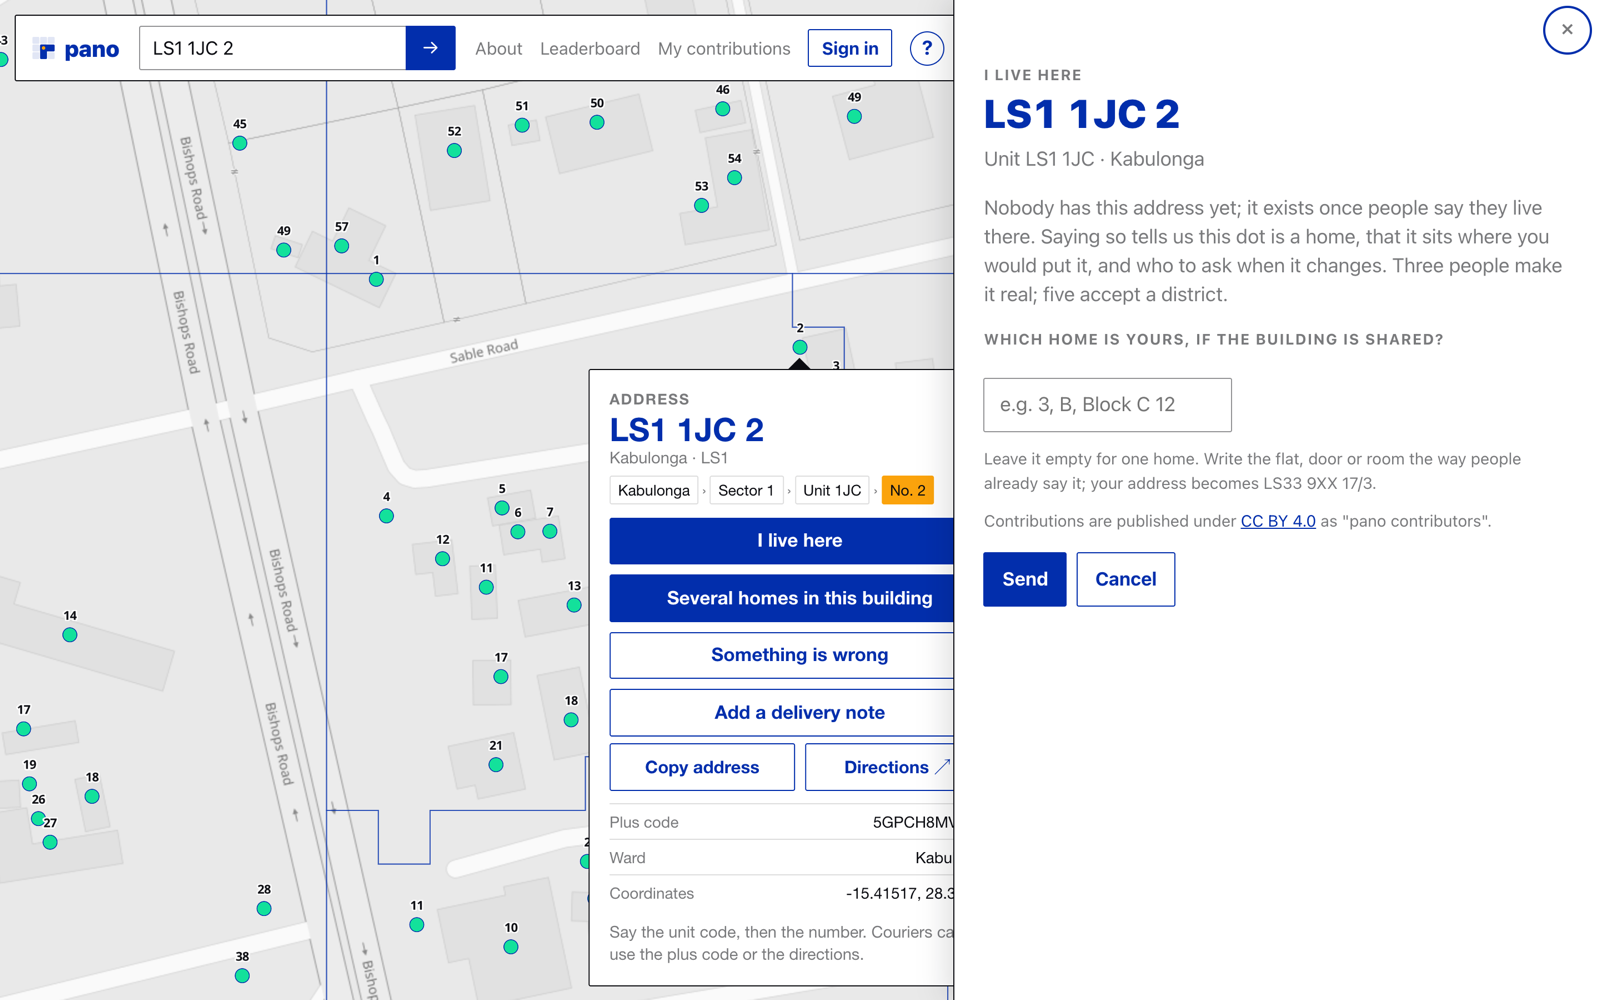
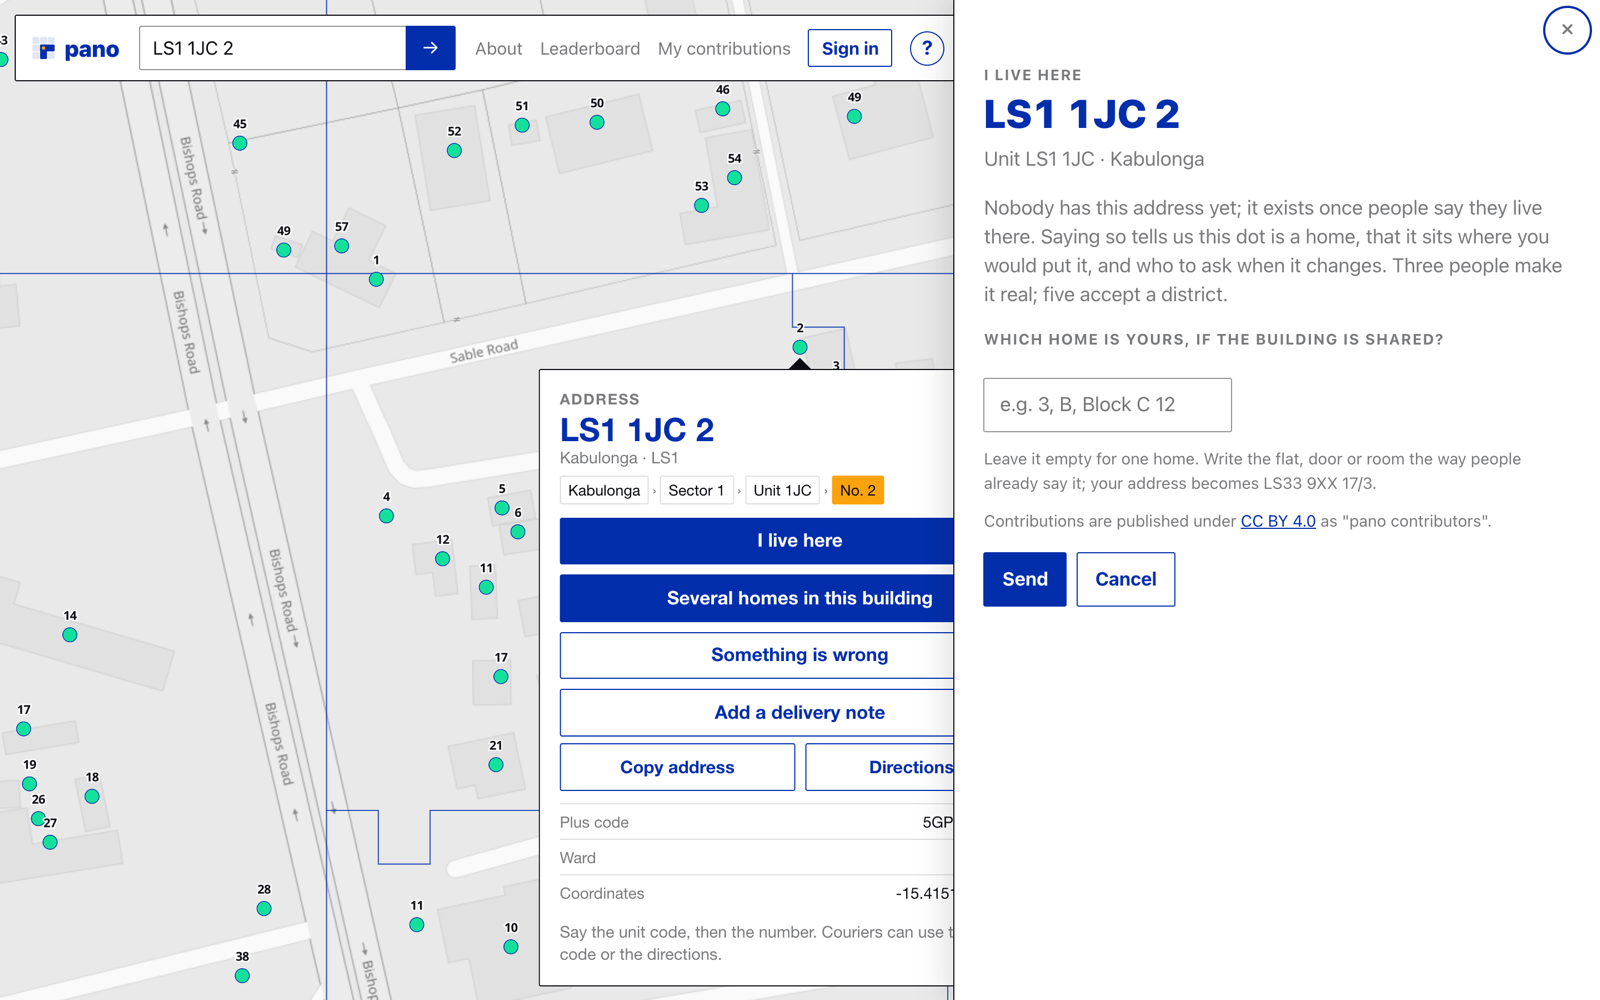
fix: a wider map card
42rem on a desktop, the viewport less a margin on a phone; 34rem
cramped the crumbs and the facts.

Claude-Session: https://claude.ai/code/session_015MA6EVJhnYjPz7w1iBwb9f

Changed region(s): [[0.3125, 0.372, 0.5938, 0.992], [0.5312, 0.806, 0.5938, 0.899], [0.5312, 0.744, 0.5938, 0.775]]

diff --git a/app/assets/stylesheets/application.css b/app/assets/stylesheets/application.css
@@ -190,7 +190,7 @@ a:hover { text-decoration: underline; text-underline-offset: .2em; }
 }
 
 /* Map popups in pano's style */
-.maplibregl-popup { max-width: 34rem !important; font-family: inherit; }
+.maplibregl-popup { max-width: min(42rem, calc(100vw - 2.4rem)) !important; font-family: inherit; }
 .maplibregl-popup-content { border: 1px solid var(--ink); border-radius: var(--radius); box-shadow: none; padding: 1.4rem 1.6rem 1.6rem; font-size: 1.4rem; }
 .maplibregl-popup-content .eyebrow { margin: 0 0 .2rem; padding-right: 2.4rem; }
 .maplibregl-popup-content .address { font-size: 2.6rem; font-weight: 900; line-height: 1.05; color: var(--accent); margin: 0 0 .8rem; font-variant-numeric: tabular-nums; }

diff --git a/app/javascript/controllers/map_controller.js b/app/javascript/controllers/map_controller.js
@@ -484,7 +484,7 @@ export default class extends Controller {
     }
     if (note) add("p", "note", note)
     this.popup?.remove()
-    this.popup = new maplibregl.Popup({ closeButton: true, closeOnClick: true, maxWidth: "34rem", offset: 10, focusAfterOpen: false })
+    this.popup = new maplibregl.Popup({ closeButton: true, closeOnClick: true, maxWidth: "42rem", offset: 10, focusAfterOpen: false })
       .setLngLat(this.at).setDOMContent(el).addTo(this.map)
     // On a phone the card takes the width; the corner controls step aside.
     this.canvasTarget.classList.add("has-card")
